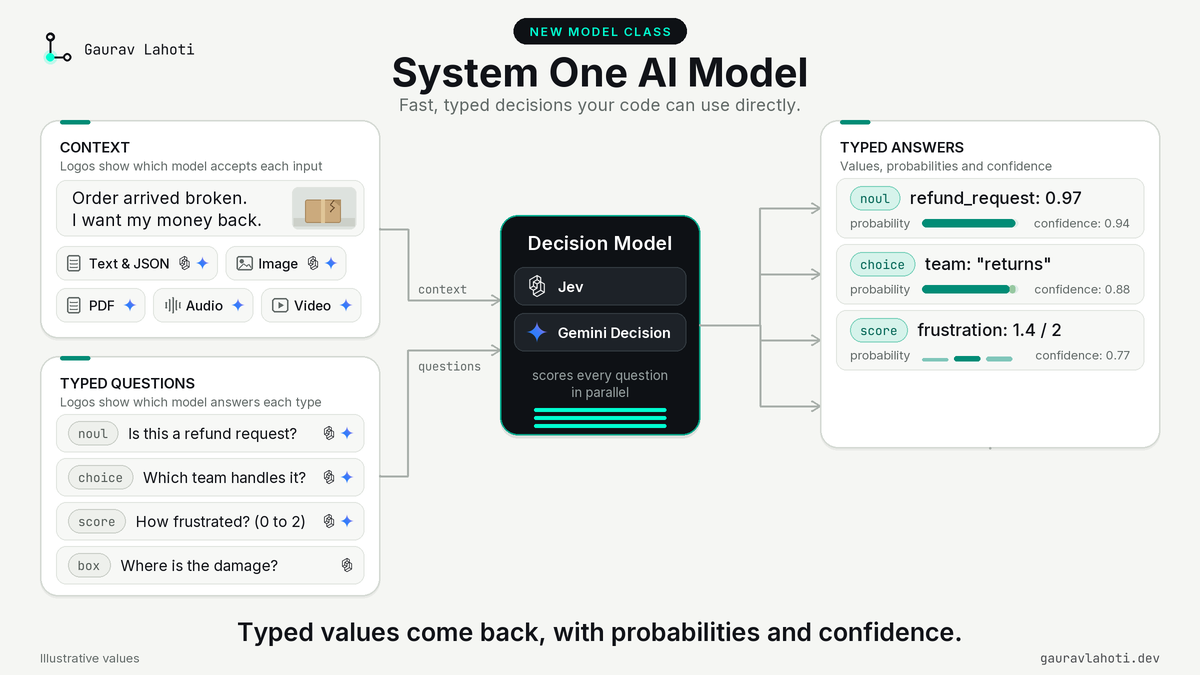
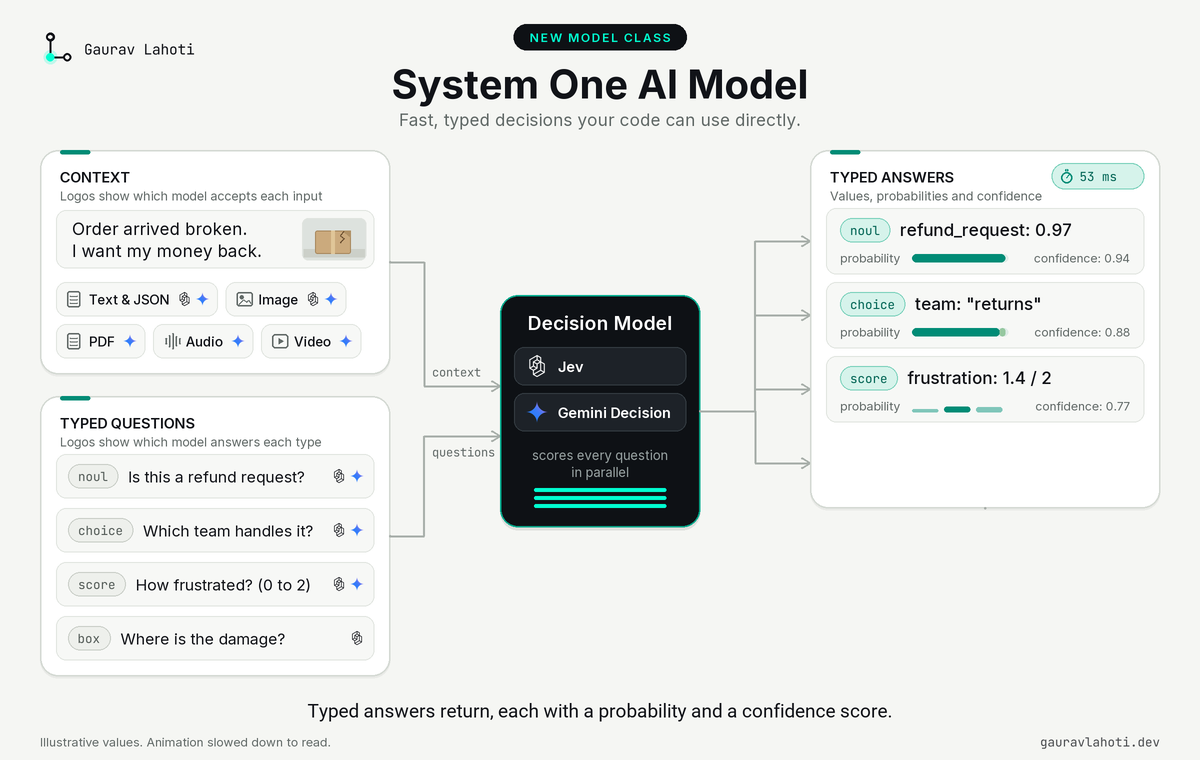
chore(social): update decision-models GIF to latest render

diff --git a/social/decision-models/make_gif.py b/social/decision-models/make_gif.py
@@ -21,7 +21,7 @@ OUT = HERE / "out"
 
 W, H, S = 1200, 760, 2  # logical size, supersample factor
 FRAME_MS = 70
-T_END = 16.4
+T_END = 18.6
 HOLD_MS = 2800
 
 Color = tuple[int, int, int]
@@ -327,6 +327,7 @@ CAPTIONS = [
     (8.9, "Typed answers return, each with a probability and a confidence score."),
     (12.4, "Your code branches, routes and sorts on them directly."),
     (15.4, "No text generated. Nothing to parse."),
+    (18.0, "The takeaway: fast, low-cost judgment calls for Jev. Deep reasoning for your LLM."),
 ]
 CAPTION_PT = 19  # one size for every caption; the longest one has to fit on a single line
 
@@ -507,6 +508,21 @@ def render(t: float) -> Image.Image:
     # ---- answers
     a = appear(t, 9.2, 0.6)
     panel(c, ANS, a, PANEL, "TYPED ANSWERS", "Values, probabilities and confidence")
+    if a >= 0.03:
+        # latency chip: the stopwatch runs fast while the rest of the animation is slowed down to read
+        # runs across the whole answer reveal: first row at 9.5 s, last row finished at 12.35 s
+        k = prog(t, 9.5, 2.85)
+        f = mono(12.5)
+        label = "~100 ms" if k >= 1 else f"{round(100 * k)} ms"
+        cw = 28 + tw(f, "~100 ms") + 12
+        cx = ANS[0] + ANS[2] - 16 - cw
+        cy = ANS[1] + 13 + (1 - a) * 12
+        c.rr(cx, cy, cw, 26, 13, mix(WHITE, TEAL_SOFT, 1.0), mix(WHITE, TEAL_EDGE, 1.0), 1)
+        ix, iy = cx + 15, cy + 14.5
+        c.d.ellipse([P(ix - 5.5), P(iy - 5.5), P(ix + 5.5), P(iy + 5.5)], outline=TEAL, width=P(1.4))
+        c.line([(ix, iy), (ix + 2.6, iy - 3)], TEAL, 1.2)
+        c.rr(ix - 1.6, iy - 8.6, 3.2, 2.2, 0.8, TEAL)
+        c.text(cx + 28, cy + 13.5, label, f, (0, 100, 84))
     for i, (kind, key, conf) in enumerate(ANSWERS):
         start = 9.5 + i * 0.55
         ra = appear(t, start, 0.5)
@@ -593,7 +609,7 @@ def render(t: float) -> Image.Image:
 
     # ---- footer
     fa = appear(t, 0.6, 0.6)
-    c.text(40, 742, "Illustrative values", sans(12), mix(BG, MUTED, fa))
+    c.text(40, 742, "Illustrative values. Animation slowed down to read.", sans(12), mix(BG, MUTED, fa))
     c.text(1160, 742, "gauravlahoti.dev", mono(12.5), mix(BG, INK, fa * 0.75), "rm")
 
     return c.img.resize((W, H), Image.LANCZOS)
